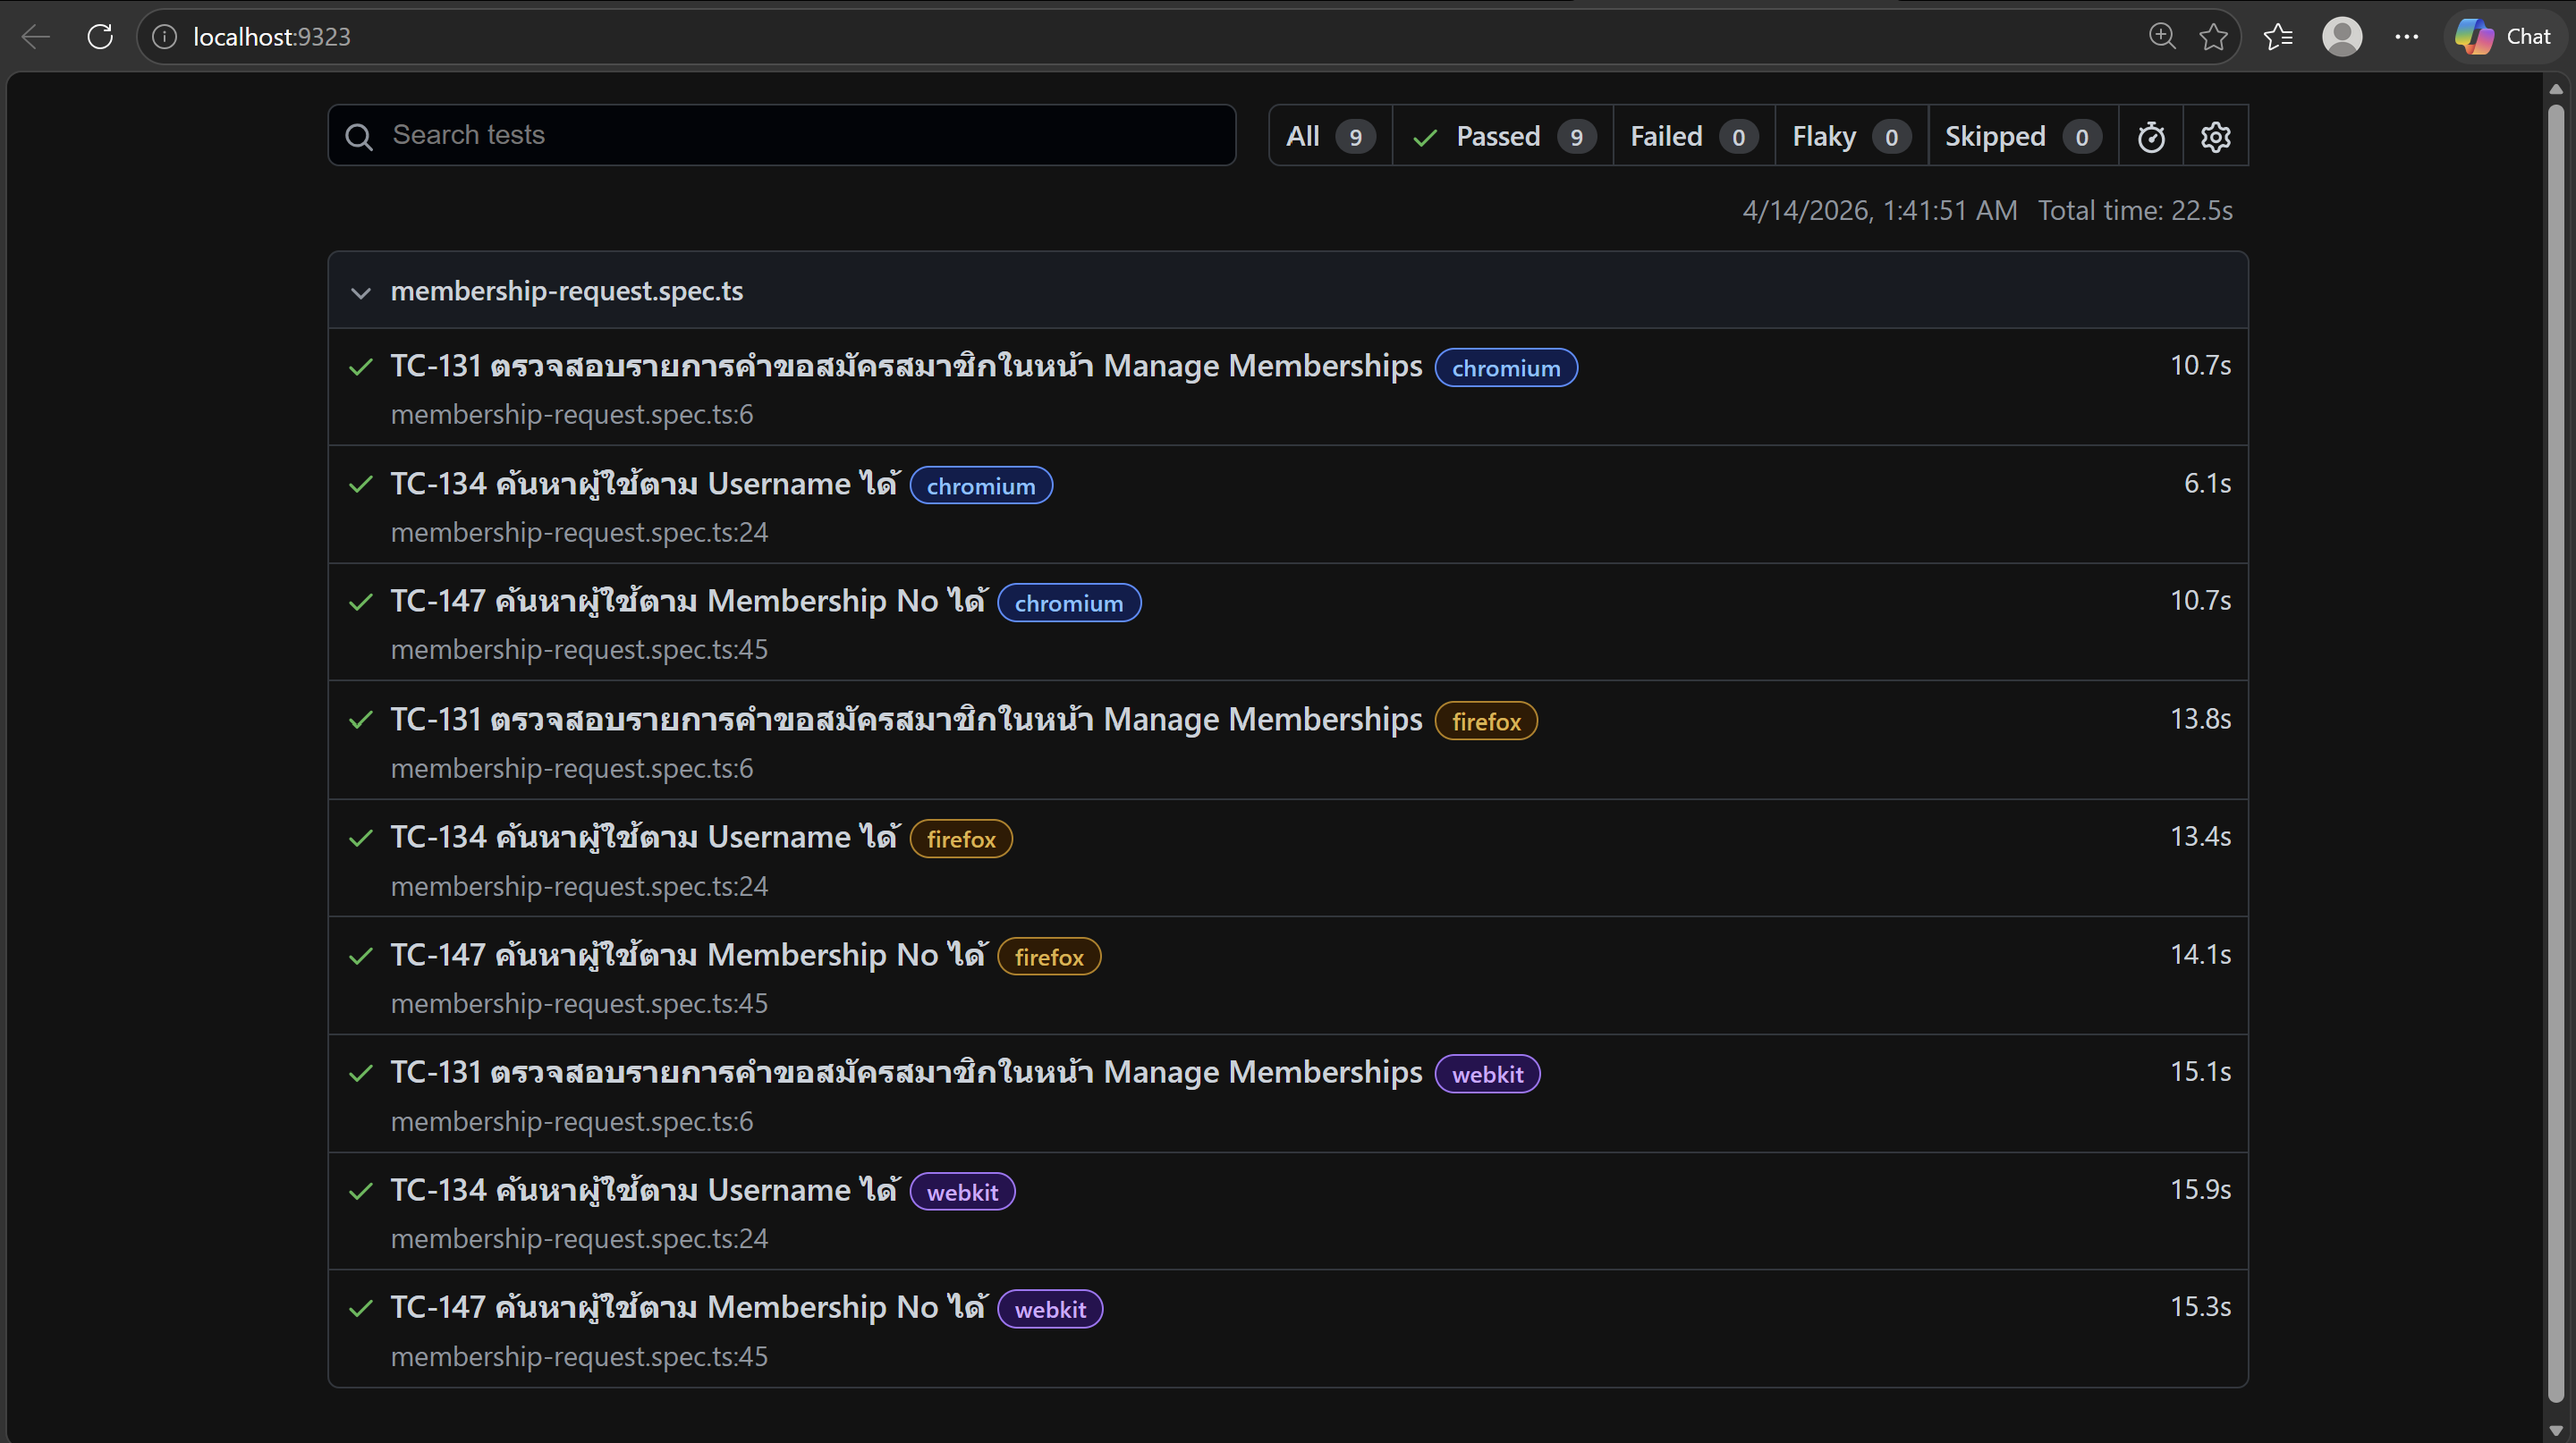
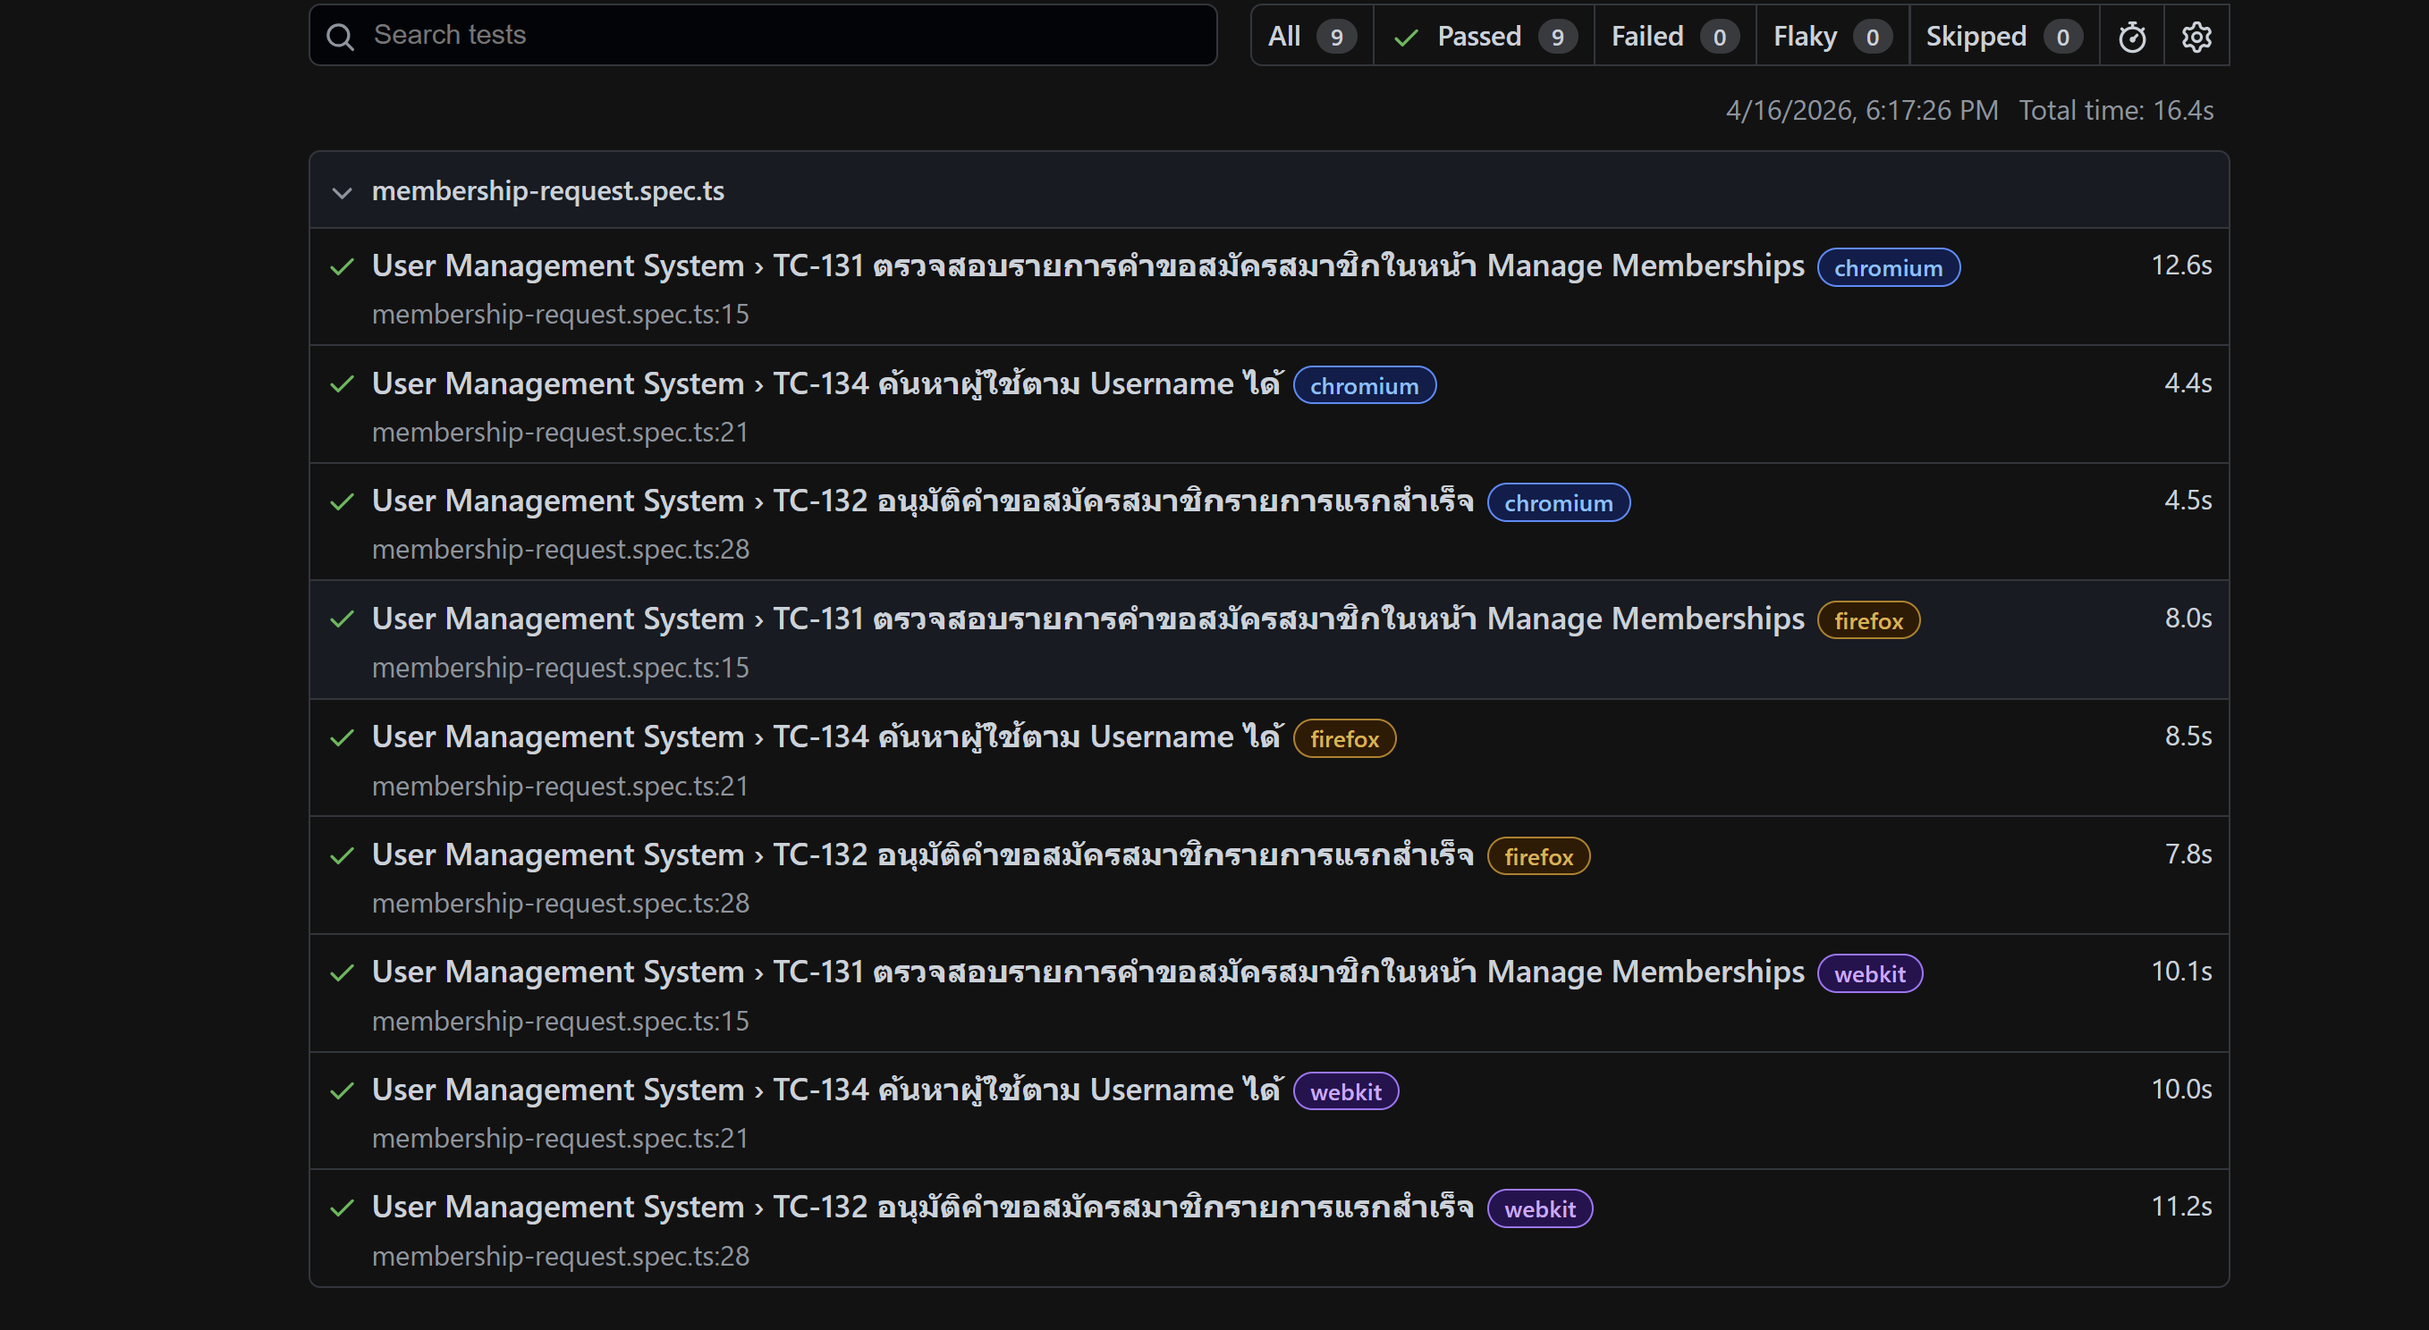
edit delete tc-147, add tc-132

diff --git a/auto-test-660710255/tests/membership-request.spec.ts b/auto-test-660710255/tests/membership-request.spec.ts
@@ -3,62 +3,33 @@ import { LoginPage } from '../pages/login.page';
 import { DashboardPage } from '../pages/dashboard.page';
 import { UserManagementPage } from '../pages/userManagement.page';
 
-test('TC-131 ตรวจสอบรายการคำขอสมัครสมาชิกในหน้า Manage Memberships', async ({ page }) => {
-    const loginPage = new LoginPage(page);
-    const dashboardPage = new DashboardPage(page);
-    const userPage = new UserManagementPage(page);
-
-    // 1. Login
-    await loginPage.login('Admin1', '123456');
-
-    // 2. ไปที่หน้าจัดการผู้ใช้
-    await dashboardPage.goToManageUser();
-
-    // 3. คลิก Manage Memberships
-    await userPage.openManageMemberships();
-
-    // 4. ตรวจสอบการแสดงผลรายการ
-    await userPage.verifyRequestsVisible();
-});
-
-test('TC-134 ค้นหาผู้ใช้ตาม Username ได้', async ({ page }) => {
-    const loginPage = new LoginPage(page);
-    const dashboardPage = new DashboardPage(page);
-    const userPage = new UserManagementPage(page);
-
-    const searchTerm = 'testQR';
-
-    // 1. เข้าสู่ระบบ
-    await loginPage.login('Admin1', '123456');
-
-    // 2. ไปหน้าจัดการผู้ใช้ 
-    await dashboardPage.goToManageUser();
-
-    // 3. ทำการค้นหาในช่อง Search
-    await userPage.searchUser(searchTerm);
-
-    // 4. ตรวจสอบว่าผลลัพธ์แสดง User ที่ถูกต้อง
-    await userPage.verifySearchResult(searchTerm);
-
-});
-
-test('TC-147 ค้นหาผู้ใช้ตาม Membership No ได้', async ({ page }) => {
-    const loginPage = new LoginPage(page);
-    const dashboardPage = new DashboardPage(page);
-    const userPage = new UserManagementPage(page);
-
-    const targetMembershipNo = 'M2026-0021';
-
-    // 1. Login
-    await loginPage.login('Admin1', '123456');
+test.describe('User Management System', () => {
     
-    // รอให้หน้า Dashboard โหลดและกดไปหน้าจัดการผู้ใช้
-    await page.waitForURL('**/dashboard');
-    await dashboardPage.goToManageUser();
+    test.beforeEach(async ({ page }) => {
+        const loginPage = new LoginPage(page);
+        await loginPage.login('Admin1', '123456');
+        const dashboardPage = new DashboardPage(page);
+        await dashboardPage.goToManageUser();
+    });
 
-    // 2. ค้นหาด้วย Membership No
-    await userPage.searchByMembershipNo(targetMembershipNo);
+    test('TC-131 ตรวจสอบรายการคำขอสมัครสมาชิกในหน้า Manage Memberships', async ({ page }) => {
+        const userPage = new UserManagementPage(page);
+        await userPage.openManageMemberships();
+        await userPage.verifyRequestsVisible();
+    });
 
-    // 3. ตรวจสอบผลลัพธ์ว่าเจอรายการที่ตรงกัน
-    await userPage.verifyMembershipInList(targetMembershipNo);
+    test('TC-134 ค้นหาผู้ใช้ตาม Username ได้', async ({ page }) => {
+        const userPage = new UserManagementPage(page);
+        const searchTerm = 'testQR';
+        await userPage.searchUser(searchTerm);
+        await userPage.verifySearchResult(searchTerm);
+    });
+
+    test('TC-132 อนุมัติคำขอสมัครสมาชิกรายการแรกสำเร็จ', async ({ page }) => {
+        const userPage = new UserManagementPage(page);
+
+        await userPage.openManageMemberships();
+        await userPage.approveFirstRequest();
+
+    });
 });

diff --git a/auto-test-660710255/pages/userManagement.page.ts b/auto-test-660710255/pages/userManagement.page.ts
@@ -6,6 +6,7 @@ export class UserManagementPage {
     readonly requestTable: Locator;
     readonly searchInput: Locator;
     readonly userRow: Locator;
+    readonly firstApproveButton: Locator;
 
     constructor(page: Page) {
         this.page = page;
@@ -13,35 +14,30 @@ export class UserManagementPage {
         this.requestTable = page.locator('table');
         this.searchInput = page.getByRole('textbox', { name: 'Search by name, username,' });
         this.userRow = page.locator('table tbody tr');
+        
+        this.firstApproveButton = page.getByRole('button', { name: 'Approve' }).first();
     }
 
     async openManageMemberships() {
         await this.manageMembershipButton.click();
-    }
-
-    async verifyRequestsVisible() {
-        // ตรวจสอบว่าตารางหรือรายการคำขอแสดงขึ้นมา
         await expect(this.requestTable).toBeVisible();
     }
 
+    async verifyRequestsVisible() {
+        await expect(this.requestTable).toBeVisible();
+    }
+
+    async approveFirstRequest() {
+        await this.firstApproveButton.waitFor({ state: 'visible' });
+        await this.firstApproveButton.click();
+    }
+
     async searchUser(username: string) {
-        await this.searchInput.click();
         await this.searchInput.fill(username);
-        
-        // ระบบค้นหา
         await this.page.waitForLoadState('networkidle');
     }
 
     async verifySearchResult(expectedUsername: string) {
         await expect(this.userRow.first()).toContainText(expectedUsername);
-    }
-
-    async searchByMembershipNo(membershipNo: string) {
-        await this.searchInput.fill(membershipNo);
-        await this.page.waitForLoadState('networkidle');
-    }
-
-    async verifyMembershipInList(membershipNo: string) {
-        await expect(this.userRow.first()).toContainText(membershipNo);
     }
 }
